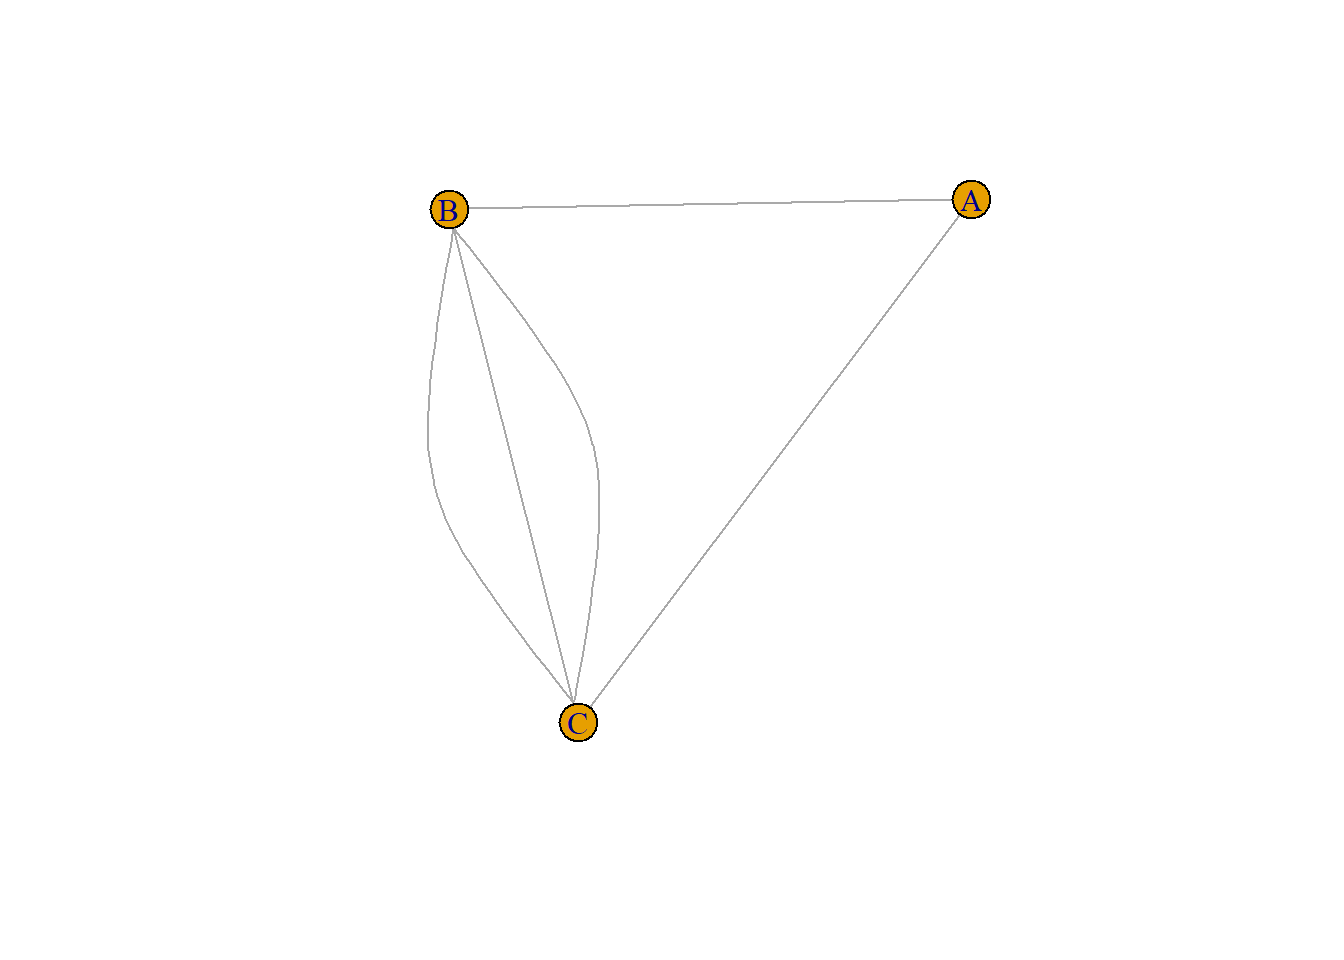
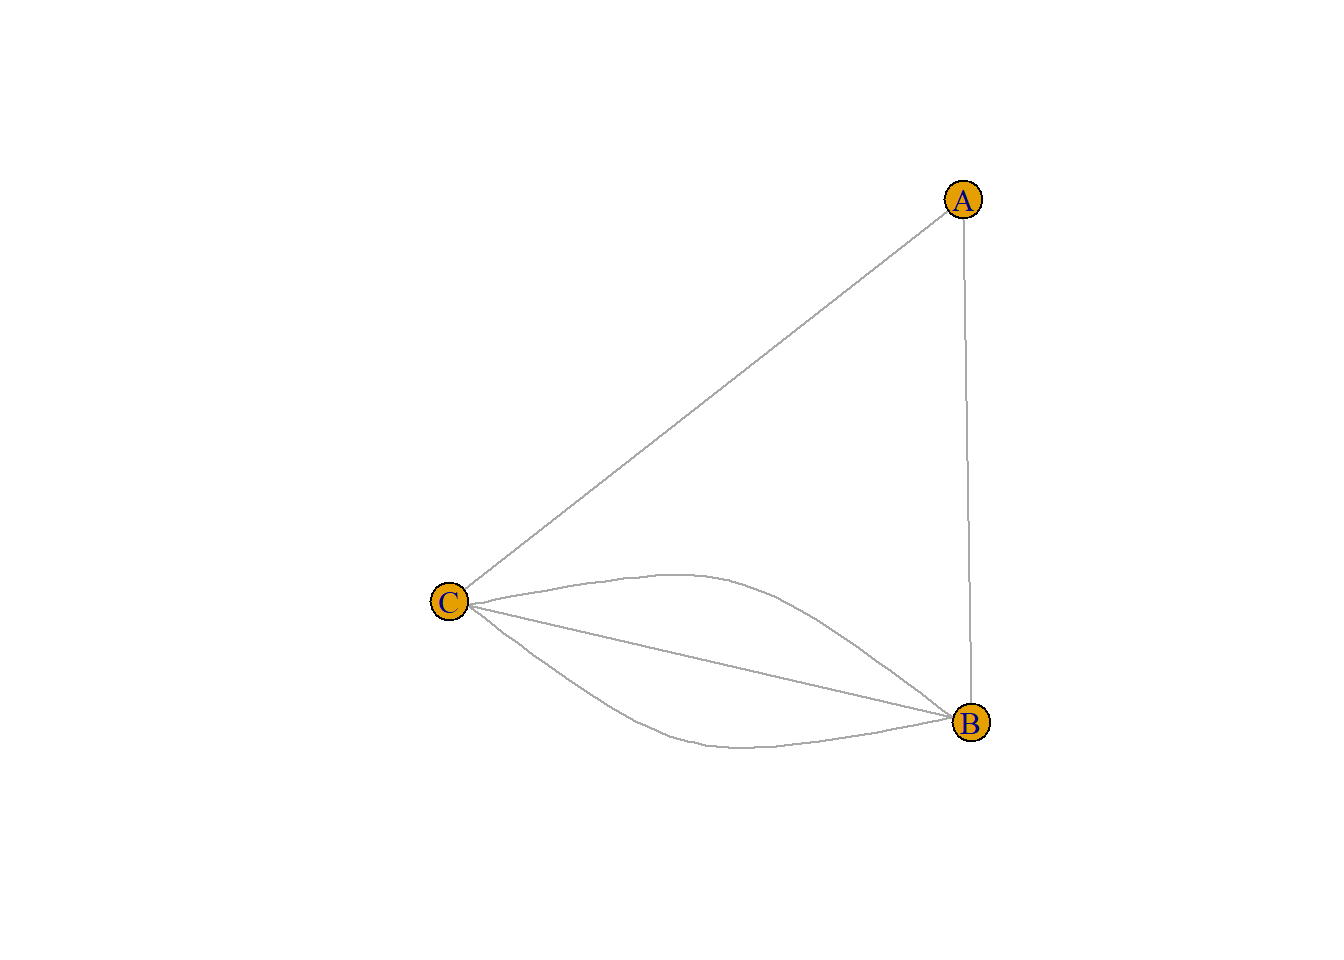
igraph matrices v2

diff --git a/content/post/2020-02-26-igraph-matrices.html b/content/post/2020-02-26-igraph-matrices.html
@@ -175,13 +175,15 @@ success &lt;- lapply(seq_along(m3_list), function(x){
     plot(main=method[[x]])
 })</code></pre>
 <p><img src="/post/2020-02-26-igraph-matrices_files/figure-html/unnamed-chunk-10-1.png" width="672" /></p>
-<pre class="r"><code>par(mfrow=c(1,2))
-
-g3_weighted &lt;- graph_from_adjacency_matrix(m3_list[[2]], mode = &quot;undirected&quot;, weighted = TRUE)
-plot(g3_weighted, main=&quot;before setup edge width&quot;)
-
-E(g3_weighted)$width  &lt;- edge.attributes(g3_weighted)$weight*5
-plot(g3_weighted, main=&quot;after setup edge width to weight&quot;)</code></pre>
+<p>乍看上去，生成的网络是一样的，但事实上边的属性不一样。
+如果我们把边的宽度映射到“weight”属性，则仍然可以发现文献B和C之间的耦合关系是最强的。</p>
+<pre class="r"><code>par(mfrow=c(2,3))
+success &lt;- lapply(seq_along(m3_list), function(x){
+  par(mar=c(1,1,1,1))
+  g3_weighted &lt;- graph_from_adjacency_matrix(m3_list[[x]], mode = &quot;undirected&quot;, weighted = TRUE)
+  E(g3_weighted)$width  &lt;- edge.attributes(g3_weighted)$weight*5
+  plot(g3_weighted, main=method[[x]])
+})</code></pre>
 <p><img src="/post/2020-02-26-igraph-matrices_files/figure-html/unnamed-chunk-11-1.png" width="672" /></p>
 <p>对于耦合网络来说，图中的 loop 是没有意义的。可以使用 <code>igraph::simplify()</code> 来去掉。</p>
 <pre class="r"><code>g4 &lt;- simplify(g3, remove.multiple = FALSE, remove.loops = TRUE)
